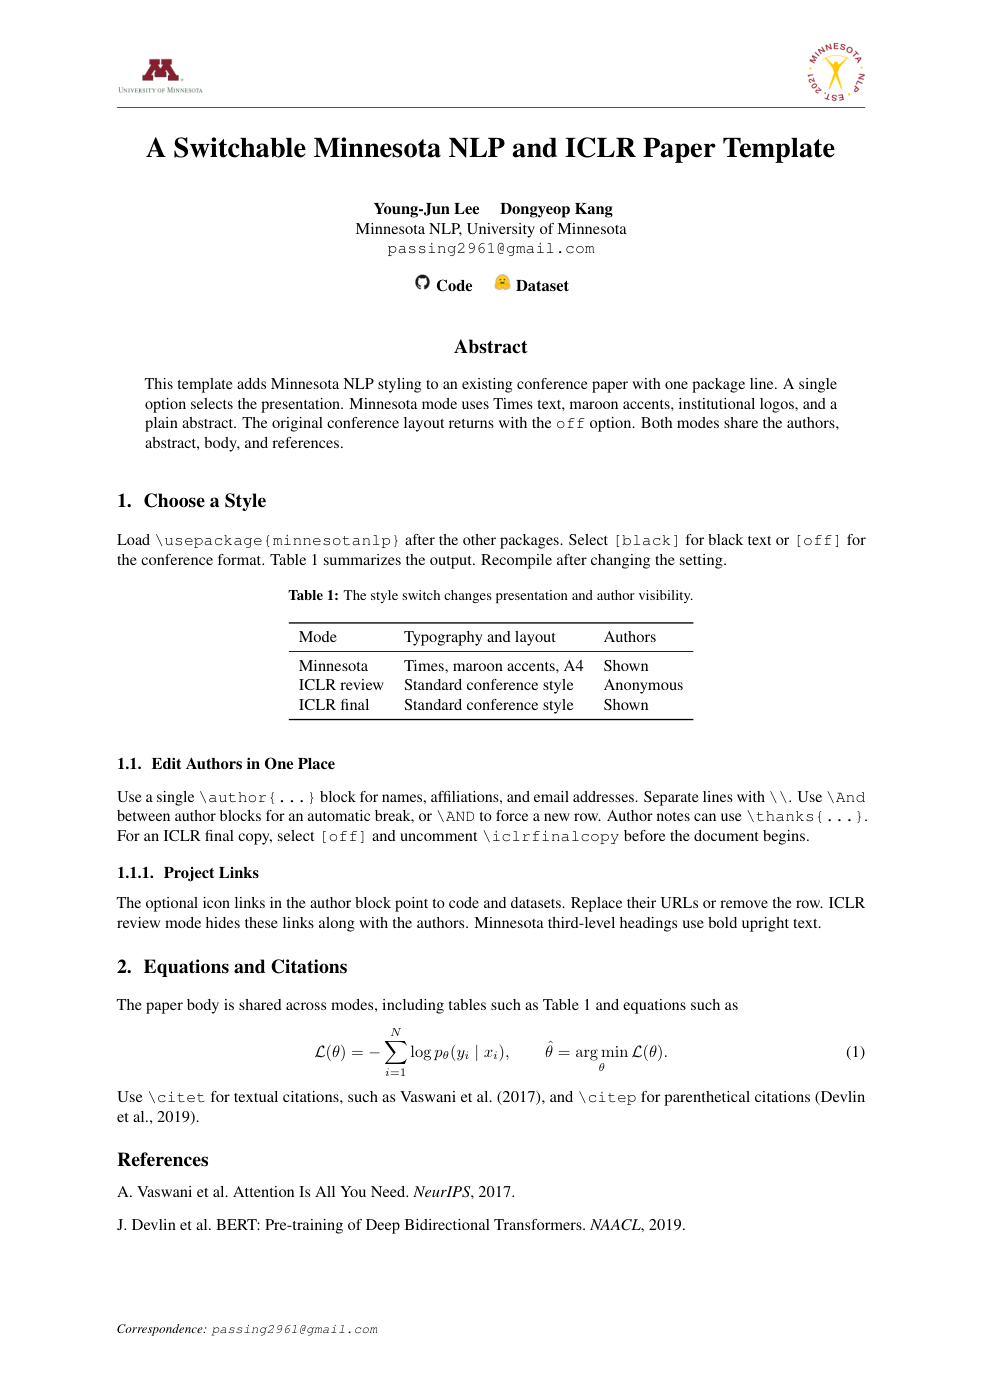
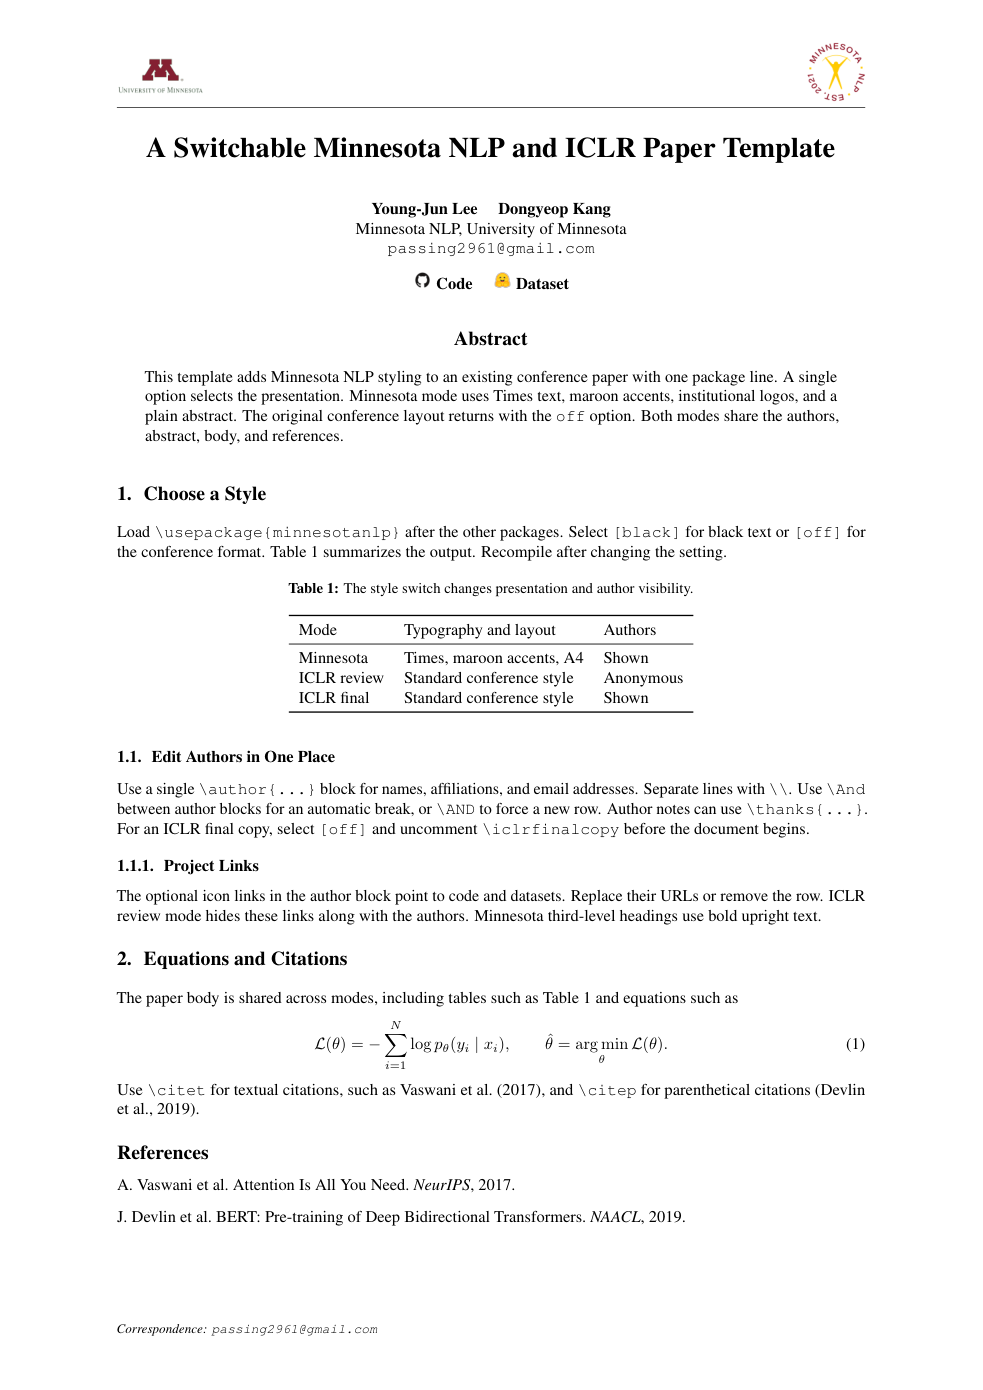
Update converter to fix author wrapping and ICLR review rulers

Changed region(s): [[0.1221, 0.1856, 0.885, 0.8971], [0.3662, 0.1237, 0.4883, 0.1547], [0.5188, 0.1237, 0.6104, 0.1547]]

diff --git a/index.html b/index.html
@@ -12,7 +12,7 @@
     <link rel="icon" href="assets/nlp-logo.png" type="image/png" />
     <link rel="stylesheet" href="styles.css" />
     <link rel="stylesheet" href="converter/converter.css" />
-    <script src="app.js?v=2" defer></script>
+    <script src="app.js?v=3" defer></script>
     <link
       rel="canonical"
       href="https://minnesotanlp.github.io/minnesota-nlp-template-project-page/"
@@ -668,6 +668,21 @@
             ></a>
           </div>
           <div class="faq-list">
+            <details>
+              <summary>
+                <span>Is this the conference camera-ready version?</span
+                ><svg class="icon" aria-hidden="true">
+                  <use href="#icon-plus"></use>
+                </svg>
+              </summary>
+              <p>
+                Minnesota and Black modes create a Minnesota preprint with
+                visible authors, no review line numbers, and long author rows
+                that wrap to fit the page. For the official conference
+                camera-ready layout, use \usepackage[off]{minnesotanlp} and
+                your conference’s final setting, such as \iclrfinalcopy for ICLR.
+              </p>
+            </details>
             <details>
               <summary>
                 <span>Do I need to clone the repo or install Python?</span

diff --git a/app.js b/app.js
@@ -11,7 +11,7 @@ if (location.protocol === "file:") {
   link.textContent = " Open the online converter ↗";
   status.append(link);
 } else {
-  import("./converter/ui.mjs").catch(() => {
+  import("./converter/ui.mjs?v=2.0.2").catch(() => {
     document.getElementById("converter-status").textContent =
       "The converter could not load. Reload the page, or follow the Overleaf guide below.";
   });

diff --git a/README.md b/README.md
@@ -72,6 +72,10 @@ setting. Minnesota and Black modes display author information. In those two
 modes, single-line figure and table captions are centered; longer captions are
 justified.
 
+Minnesota and Black modes produce a **Minnesota preprint**: review line numbers
+are removed and long shared author rows wrap to fit. For the official conference
+camera-ready layout, use `[off]` with its final setting (e.g. `\iclrfinalcopy` for ICLR).
+
 Optional metadata goes after the package line and is harmless in `[off]` mode:
 
 ```latex
